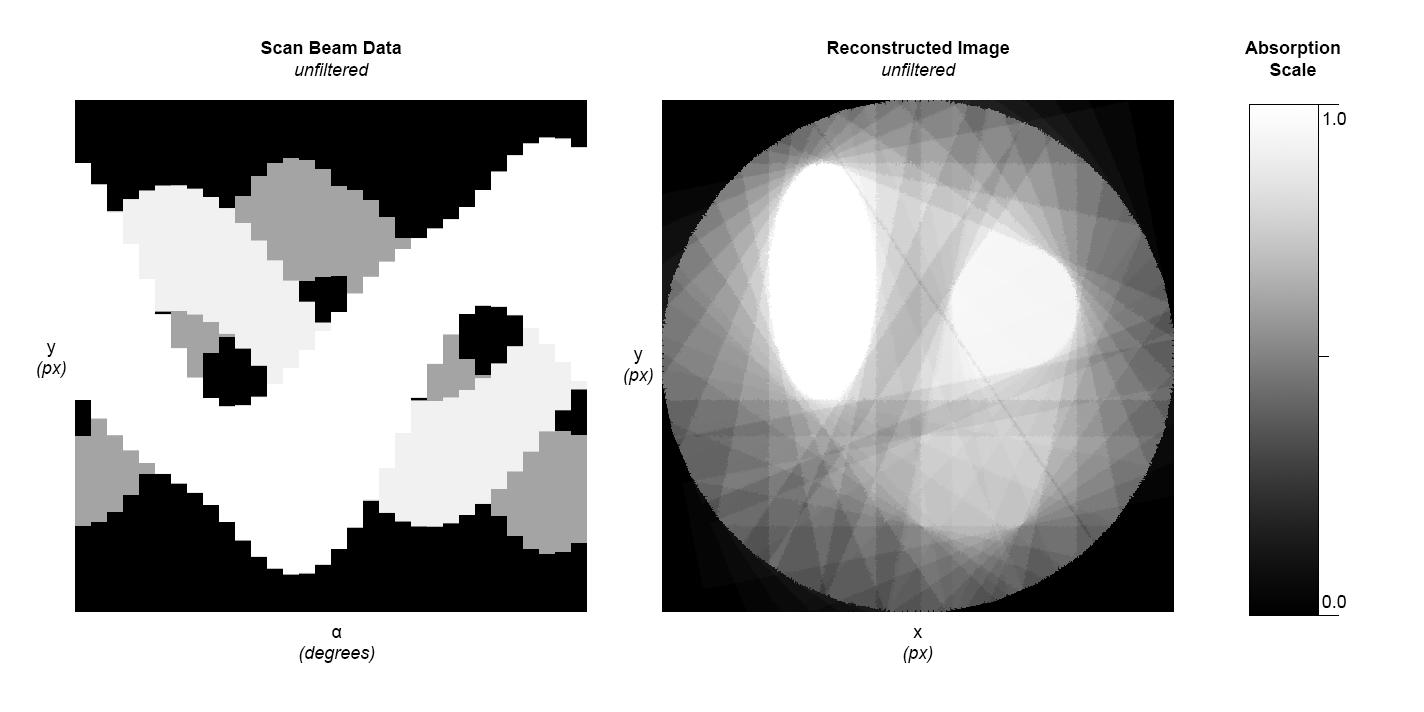
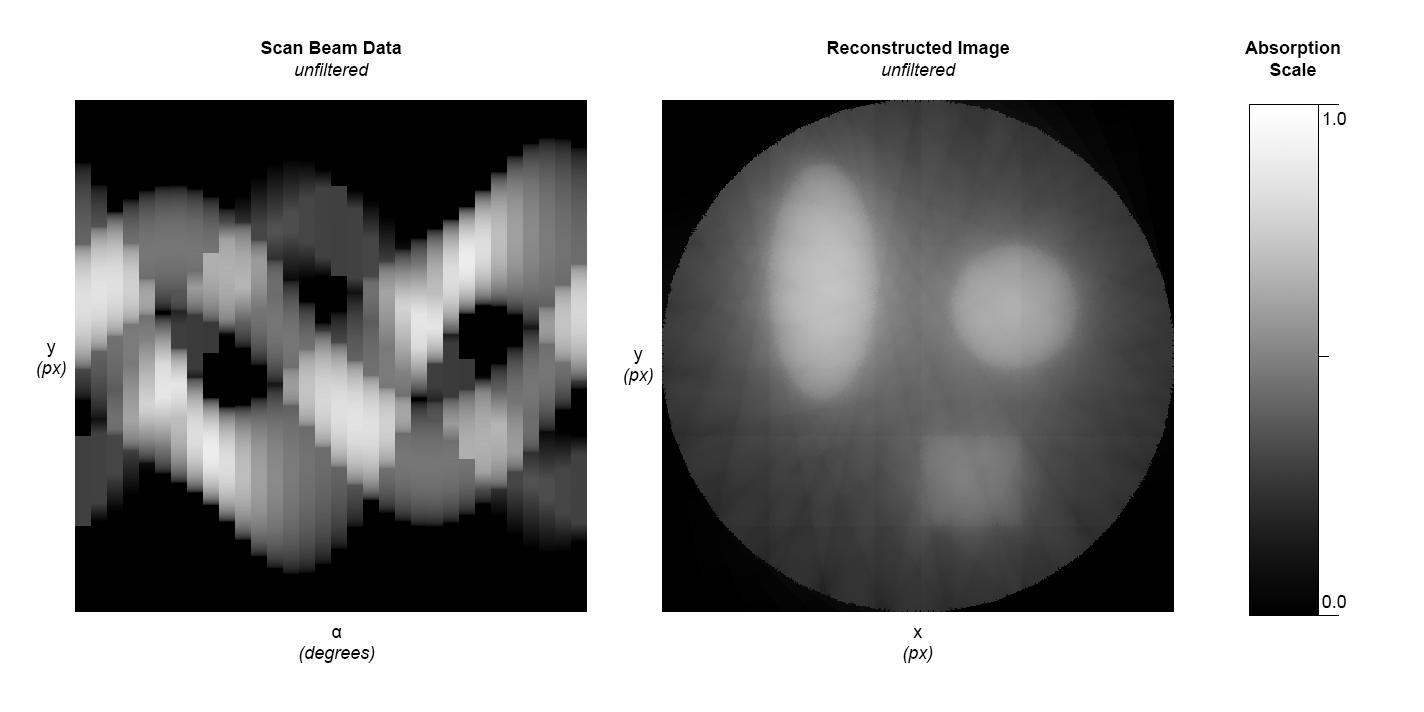
Fix CT Imaging Simulation

diff --git a/simple-ct-sim.py b/simple-ct-sim.py
@@ -10,17 +10,17 @@ IMG_SIZE = 512
 
 async def ct_scan_from_angle(org: PILImage, angle: float) -> np.ndarray:
   sub = org.rotate(angle)
-  sub = np.asarray(sub, dtype=float)
+  sub = np.asarray(sub, dtype=float) / 255.0
   res = np.zeros(IMG_SIZE, dtype=float)
 
   for i in range(len(sub)):
-    res[i] = np.amax(sub[i])
+    res[i] = np.sum(sub[i])
 
   return res
 
 
 def parallel_reconstruction(scans: np.ndarray, angle_step: float) -> PILImage:
-  normalized_scans = scans / float(len(scans))
+  normalized_scans = ((scans / np.amax(scans)) * 255.0) / float(len(scans))
   img = Image.new("F", (IMG_SIZE, IMG_SIZE), 0)
 
   for r in range(len(normalized_scans)):
